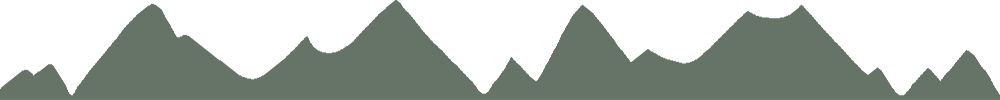
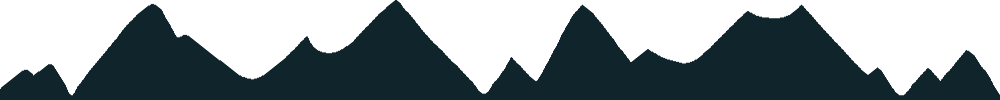
Think twice, code once.

diff --git a/components/Footer.js b/components/Footer.js
@@ -18,33 +18,38 @@ export default function Footer() {
         }}
       >
         <div className={"uk-container"}>
-          <div className={daytime ? undefined : "uk-light"}>
-            <div className={"uk-text-small"}>
-              <span style={{ transition: "var(--transition)" }}>
-                &copy; Copyright
-              </span>{" "}
-              <a href={"/"} title={"The Pixel Shop"}>
-                The Pixel Shop
-              </a>{" "}
-              <span style={{ transition: "var(--transition)" }}>
-                {moment().format("Y")}.
-              </span>{" "}
-              <a
-                href={"https://twitter.com/realpixelshop"}
-                title={"The Pixel Shop"}
-              >
-                <FontAwesomeIcon icon={faTwitter} />
-              </a>{" "}
-              <a
-                href={"https://discord.gg/thepixelshop"}
-                title={"The Pixel Shop"}
-              >
-                <FontAwesomeIcon icon={faDiscord} />
-              </a>{" "}
-              <a href={"mailto:contact@thepixelshop.app"}>
-                contact@thepixelshop.app
-              </a>
-            </div>
+          <div
+            className={"uk-text-small"}
+            style={{
+              color: daytime
+                ? "var(--daytime-shade-1)"
+                : "var(--nighttime-shade-1)",
+            }}
+          >
+            <span style={{ transition: "var(--transition)" }}>
+              &copy; Copyright
+            </span>{" "}
+            <a href={"/"} title={"The Pixel Shop"}>
+              The Pixel Shop
+            </a>{" "}
+            <span style={{ transition: "var(--transition)" }}>
+              {moment().format("Y")}.
+            </span>{" "}
+            <a
+              href={"https://twitter.com/realpixelshop"}
+              title={"The Pixel Shop"}
+            >
+              <FontAwesomeIcon icon={faTwitter} />
+            </a>{" "}
+            <a
+              href={"https://discord.gg/thepixelshop"}
+              title={"The Pixel Shop"}
+            >
+              <FontAwesomeIcon icon={faDiscord} />
+            </a>{" "}
+            <a href={"mailto:contact@thepixelshop.app"}>
+              contact@thepixelshop.app
+            </a>
           </div>
         </div>
       </div>

diff --git a/components/Team.js b/components/Team.js
@@ -29,7 +29,7 @@ export default function Team() {
         style={{
           backgroundColor: daytime
             ? "var(--daytime-shade-3)"
-            : "var(--nighttime-shade-1)",
+            : "var(--nighttime-shade-3)",
           transition: "var(--transition)",
         }}
         id={"Team"}
@@ -37,7 +37,9 @@ export default function Team() {
         <div className={"uk-container"}>
           <h2
             style={{
-              color: daytime ? "var(--daytime-shade-5)" : "white",
+              color: daytime
+                ? "var(--daytime-shade-5)"
+                : "var(--nighttime-shade-1)",
               transition: "var(--transition)",
             }}
           >
@@ -45,7 +47,9 @@ export default function Team() {
           </h2>
           <p
             style={{
-              color: daytime ? "var(--daytime-shade-5)" : "white",
+              color: daytime
+                ? "var(--daytime-shade-5)"
+                : "var(--nighttime-shade-1)",
               transition: "var(--transition)",
             }}
           >
@@ -71,7 +75,9 @@ export default function Team() {
                   <h3
                     className={"uk-margin-remove-bottom"}
                     style={{
-                      color: daytime ? "var(--daytime-shade-5)" : "white",
+                      color: daytime
+                        ? "var(--daytime-shade-5)"
+                        : "var(--nighttime-shade-1)",
                       transition: "var(--transition)",
                     }}
                   >
@@ -82,7 +88,9 @@ export default function Team() {
                       __html: post?.content.rendered,
                     }}
                     style={{
-                      color: daytime ? "var(--daytime-shade-5)" : "white",
+                      color: daytime
+                        ? "var(--daytime-shade-5)"
+                        : "var(--nighttime-shade-1)",
                       transition: "var(--transition)",
                     }}
                   />

diff --git a/components/FAQ.js b/components/FAQ.js
@@ -23,7 +23,7 @@ export default function FAQ() {
         style={{
           backgroundColor: daytime
             ? "var(--daytime-shade-5)"
-            : "var(--nighttime-shade-2)",
+            : "var(--nighttime-shade-5)",
           transition: "var(--transition)",
         }}
         id={"FAQ"}
@@ -31,7 +31,9 @@ export default function FAQ() {
         <div className={"uk-container"}>
           <h2
             style={{
-              color: daytime ? "var(--daytime-shade-3)" : "white",
+              color: daytime
+                ? "var(--daytime-shade-3)"
+                : "var(--nighttime-shade-1)",
               transition: "var(--transition)",
             }}
           >
@@ -45,7 +47,9 @@ export default function FAQ() {
                     className={"uk-accordion-title"}
                     href={"#"}
                     style={{
-                      color: daytime ? "var(--daytime-shade-3)" : "white",
+                      color: daytime
+                        ? "var(--daytime-shade-3)"
+                        : "var(--nighttime-shade-1)",
                       transition: "var(--transition)",
                     }}
                   >
@@ -57,7 +61,9 @@ export default function FAQ() {
                       __html: post?.content.rendered,
                     }}
                     style={{
-                      color: daytime ? "var(--daytime-shade-3)" : "white",
+                      color: daytime
+                        ? "var(--daytime-shade-3)"
+                        : "var(--nighttime-shade-1)",
                       transition: "var(--transition)",
                     }}
                   ></div>

diff --git a/components/Story.js b/components/Story.js
@@ -29,7 +29,9 @@ export default function Story() {
         <div className={"uk-container"}>
           <h2
             style={{
-              color: daytime ? "var(--daytime-shade-1)" : "white",
+              color: daytime
+                ? "var(--daytime-shade-1)"
+                : "var(--nighttime-shade-1)",
               transition: "var(--transition)",
             }}
           >
@@ -38,7 +40,9 @@ export default function Story() {
           <div
             dangerouslySetInnerHTML={{ __html: page?.content.rendered }}
             style={{
-              color: daytime ? "var(--daytime-shade-1)" : "white",
+              color: daytime
+                ? "var(--daytime-shade-1)"
+                : "var(--nighttime-shade-1)",
               transition: "var(--transition)",
             }}
           />

diff --git a/components/Contact.js b/components/Contact.js
@@ -60,13 +60,18 @@ export default function Contact() {
         <div className={"uk-container"}>
           <h2
             style={{
-              color: daytime ? "var(--daytime-shade-5)" : "white",
+              color: daytime
+                ? "var(--daytime-shade-5)"
+                : "var(--nighttime-shade-5)",
               transition: "var(--transition)",
             }}
           >
             Say, Hi!
           </h2>
-          <form onSubmit={(event) => handleSubmit(event)}>
+          <form
+            className={daytime ? undefined : "uk-light"}
+            onSubmit={(event) => handleSubmit(event)}
+          >
             <div className={"uk-margin"}>
               <div className={"uk-width-1-1 uk-inline"}>
                 <div className={"uk-form-icon"}>

diff --git a/pages/beta.js b/pages/beta.js
@@ -41,13 +41,13 @@ export default function Beta() {
       <Divider
         divider={0}
         daytimeBackgroundColor={"var(--daytime-shade-3)"}
-        nighttimeBackgroundColor={"var(--nighttime-shade-1)"}
+        nighttimeBackgroundColor={"var(--nighttime-shade-3)"}
       />
       <FAQ />
       <Divider
         divider={4}
         daytimeBackgroundColor={"var(--daytime-shade-5)"}
-        nighttimeBackgroundColor={"var(--nighttime-shade-2)"}
+        nighttimeBackgroundColor={"var(--nighttime-shade-5)"}
       />
       <Contact />
       <Footer />
